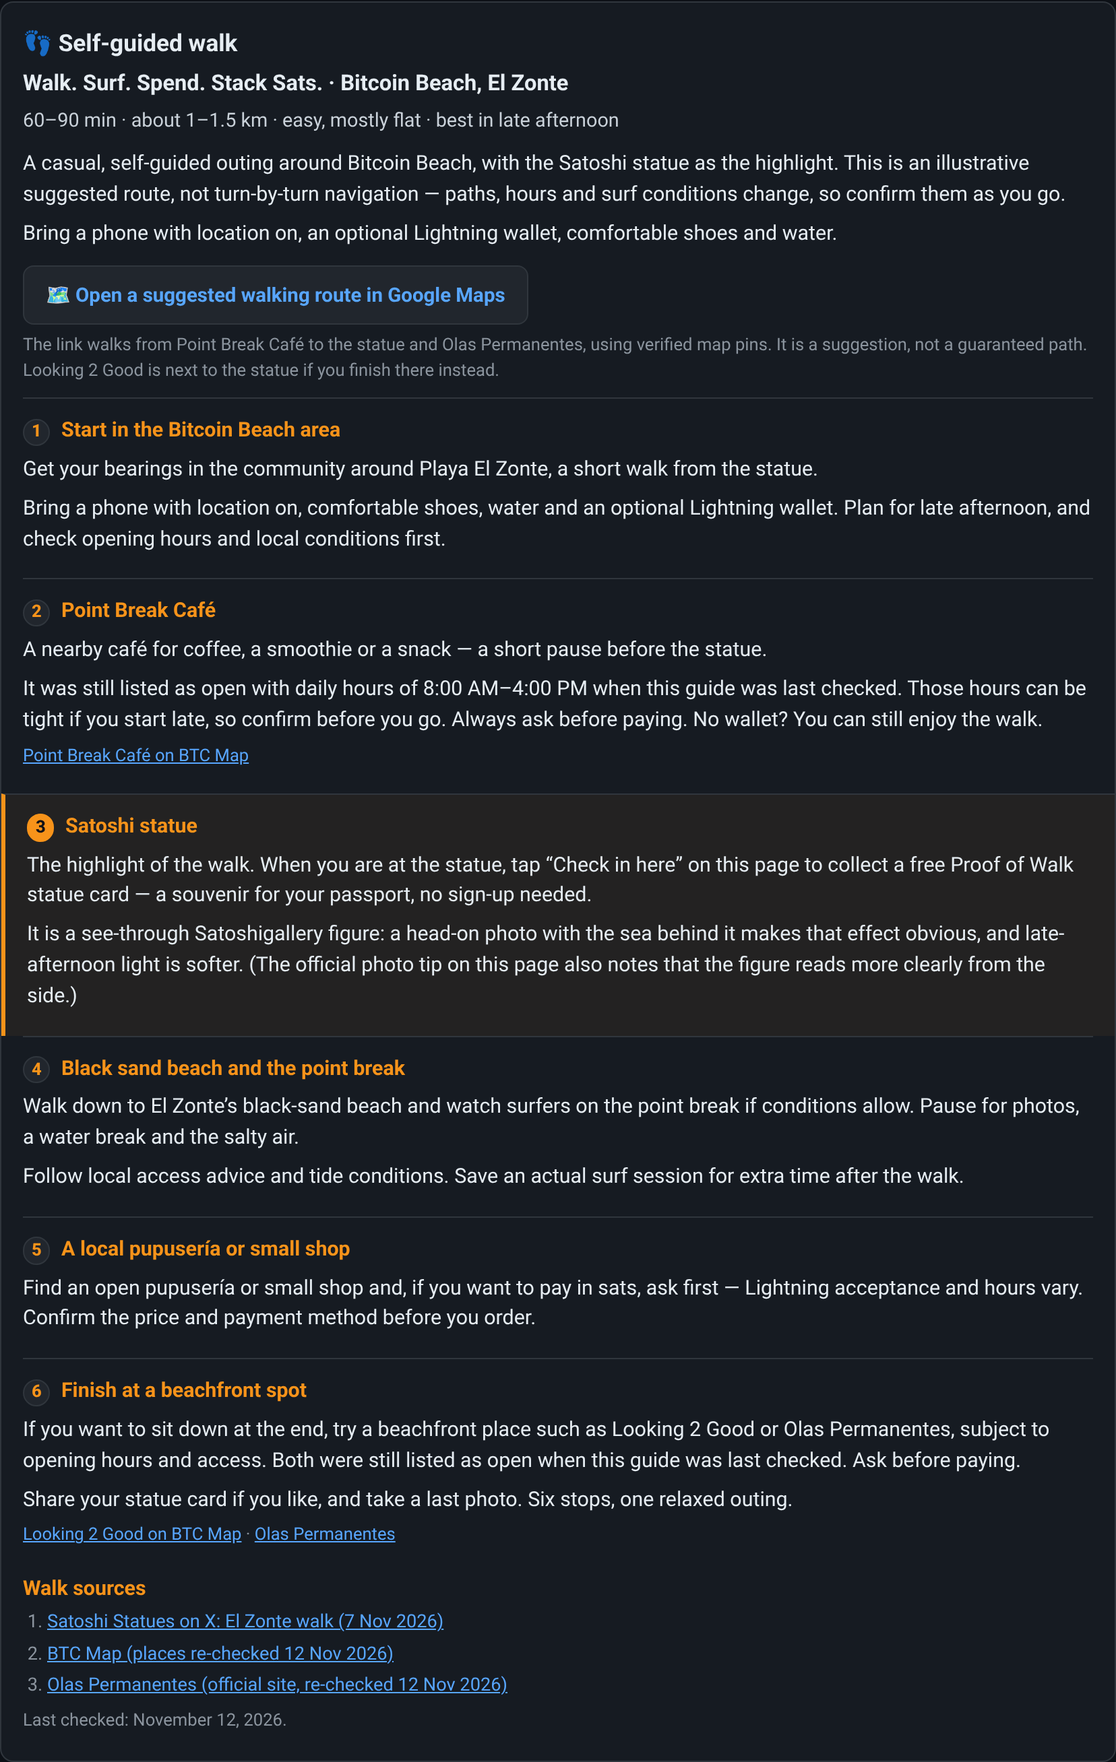
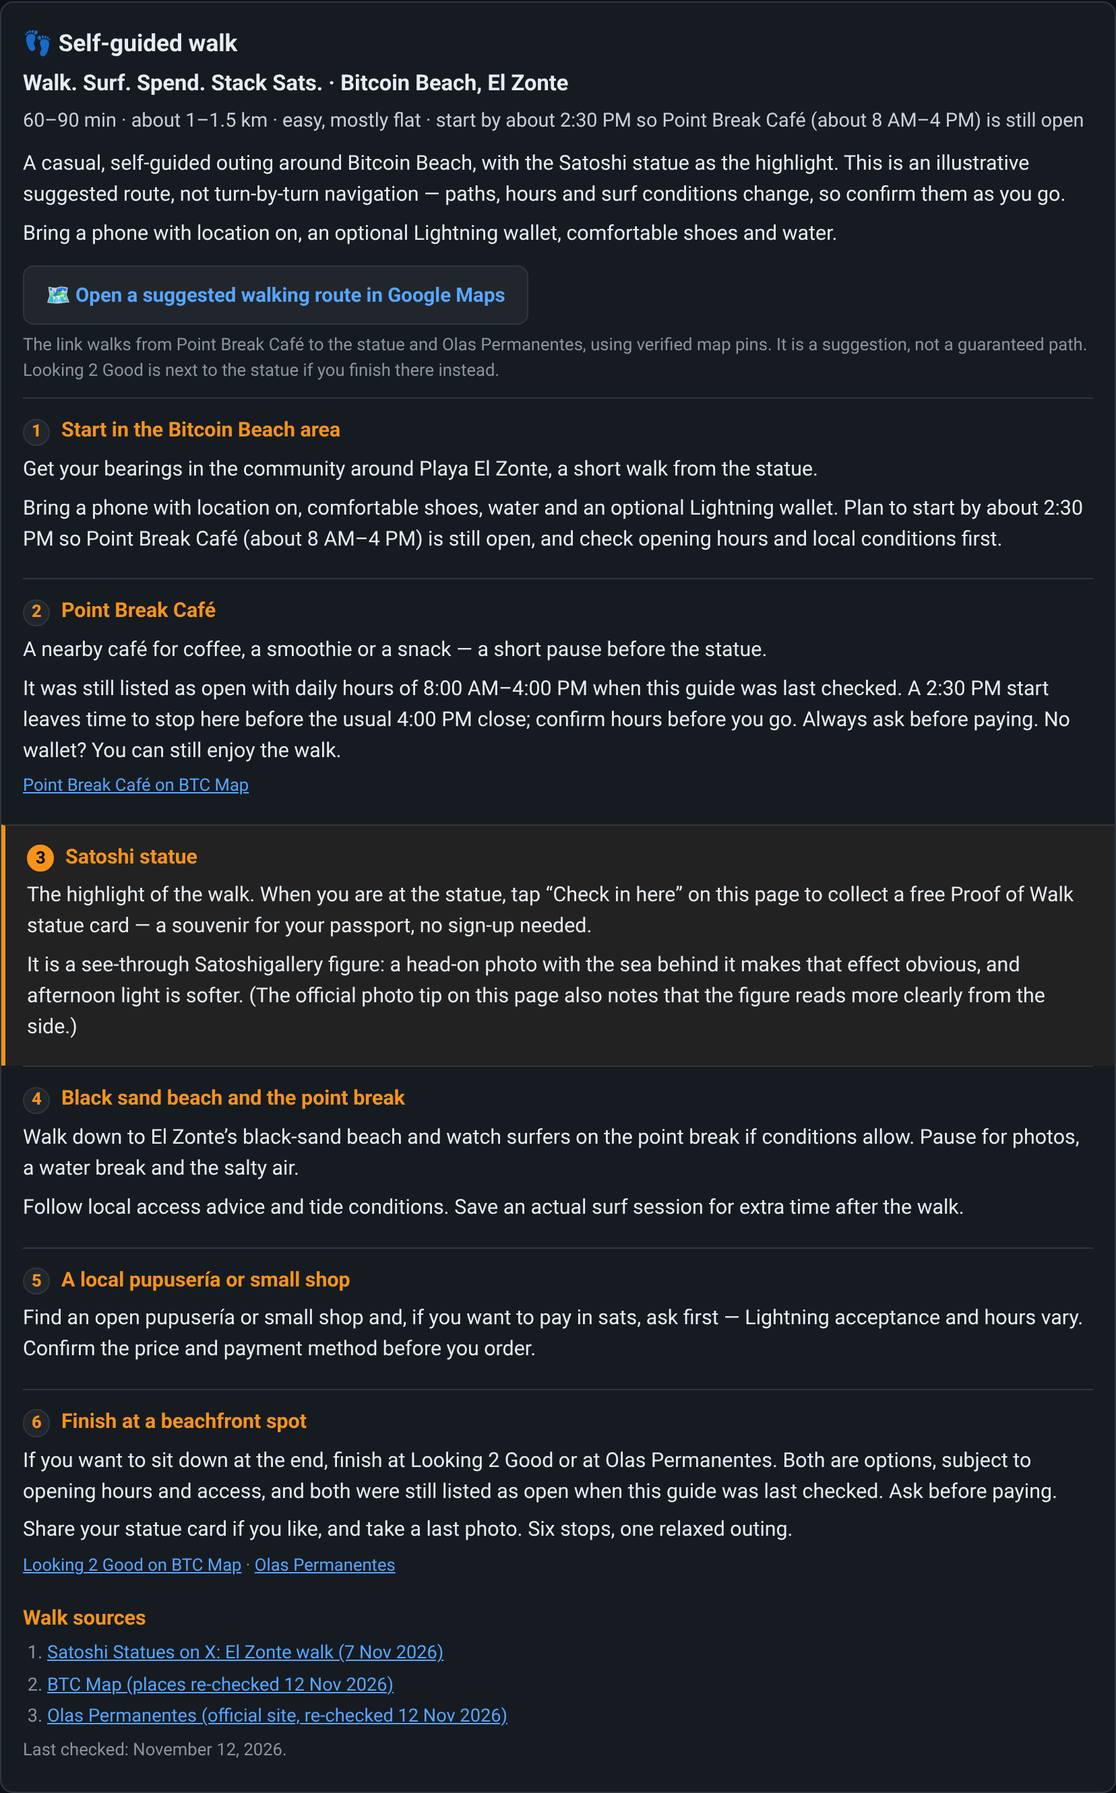
Preview: start El Zonte walk by 2:30 PM; both finish options
Per Noah: suggest starting by about 2:30 PM so Point Break Café
(about 8 AM–4 PM) is still open, and present Looking 2 Good and
Olas Permanentes as finish options. Lugano start at Palazzo dei
Congressi is unchanged. last_checked stays 2026-11-12.
Preview only — do not merge or deploy.

diff --git a/el-zonte/index.html b/el-zonte/index.html
@@ -163,7 +163,7 @@ footer.site{border-top:1px solid #30363d;margin-top:30px;padding-top:14px;font-s
     <p class="note">Located in the famous Bitcoin Beach community that helped inspire El Salvador’s Bitcoin adoption. It was first shown at Museo MARTE in San Salvador around 1 Feb 2025, then moved to El Zonte in April 2025 as part of a new public space opened by the Ministry of Public Works.</p>
     <section class="story" id="story" aria-labelledby="story-title"><h2 id="story-title">📖 The story</h2><dl><dt>Artist</dt><dd>Valentina Picozzi (Satoshigallery).<span class=cites>Sources: <a class="cite" href="https://journalducoin.com/bitcoin/satoshi-nakamoto-statue-bitcoin-salvador/" target="_blank" rel="noopener noreferrer">Journal du Coin (Feb 2025)</a></span></dd><dt>Unveiled</dt><dd>First presented at Museo MARTE in San Salvador around 1 Feb 2025 (Satoshigallery post of 1 Feb, tied to the Plan ₿ Forum El Salvador on 30–31 Jan 2025). It then moved to Bitcoin Beach, opening with a new public space on 12–13 Apr 2025.<span class=cites>Sources: <a class="cite" href="https://journalducoin.com/bitcoin/satoshi-nakamoto-statue-bitcoin-salvador/" target="_blank" rel="noopener noreferrer">Journal du Coin (Feb 2025)</a> <a class="cite" href="https://www.chaincatcher.com/en/article/2165920" target="_blank" rel="noopener noreferrer">ChainCatcher</a> <a class="cite" href="https://elsalvadorinenglish.com/2025/04/13/satoshi-rises-in-el-zonte-new-public-space-in-el-salvador-celebrating-sound-money-and-freedom/" target="_blank" rel="noopener noreferrer">El Salvador in English (13 Apr 2025)</a></span></dd><dt>Commissioned by</dt><dd><span class="rep">Reported</span> ChainCatcher reports that Tether and Plan ₿ unveiled it as the series&#x27; second statue, and it was installed as part of a public space built by El Salvador&#x27;s Ministry of Public Works. Who paid for it has not been confirmed.<span class=cites>Sources: <a class="cite" href="https://www.chaincatcher.com/en/article/2165920" target="_blank" rel="noopener noreferrer">ChainCatcher</a> <a class="cite" href="https://elsalvadorinenglish.com/2025/04/13/satoshi-rises-in-el-zonte-new-public-space-in-el-salvador-celebrating-sound-money-and-freedom/" target="_blank" rel="noopener noreferrer">El Salvador in English (13 Apr 2025)</a></span></dd><dt>What the design means</dt><dd>Satoshigallery says it gives the viewer &quot;this feeling of disappearance… the inventor is between the lines&quot;. The seated figure with a computer on its knees honours all developers, and standing behind it, the viewer &quot;becomes Satoshi&quot;. It is engraved &quot;We are all Satoshi&quot; and pays tribute to El Zonte&#x27;s role as Bitcoin Beach.<span class=cites>Sources: <a class="cite" href="https://journalducoin.com/bitcoin/satoshi-nakamoto-statue-bitcoin-salvador/" target="_blank" rel="noopener noreferrer">Journal du Coin (Feb 2025)</a> <a class="cite" href="https://elsalvadorinenglish.com/2025/04/13/satoshi-rises-in-el-zonte-new-public-space-in-el-salvador-celebrating-sound-money-and-freedom/" target="_blank" rel="noopener noreferrer">El Salvador in English (13 Apr 2025)</a></span></dd><dt>Series</dt><dd>2nd statue of the 21 Nodes series.<span class=cites>Sources: <a class="cite" href="https://www.chaincatcher.com/en/article/2165920" target="_blank" rel="noopener noreferrer">ChainCatcher</a></span></dd></dl><p class="note" style="font-size:.8rem;color:#8b949e;margin-top:8px">Only facts we could source. Items tagged “Reported” are not fully confirmed.</p></section>
     <section class="visit" id="visiting" aria-labelledby="visiting-title"><h2 id="visiting-title">🧭 Visiting</h2><h3>Getting there</h3><p class="note">We couldn&#x27;t verify bus routes to El Zonte. OpenStreetMap shows an unnamed bus stop about 180 m from the statue, on the coastal road (Carretera del Litoral).</p><p class="note">Parking: OpenStreetMap marks a surface parking area about 330 m away. Fees are unverified.</p><h3>Exact spot</h3><p class="note">In the public beachfront space at Playa El Zonte (Bitcoin Beach), La Libertad, which El Salvador&#x27;s Ministry of Public Works opened in April 2025. Satoshigallery&#x27;s own map pin is 13.4954011, -89.4424197. The Bitcoin Beach Office is about 85 m away (BTC Map/OpenStreetMap).</p><h3>Photo tip</h3><p class="note">It&#x27;s a Satoshigallery design, so the figure is visible from the side and nearly disappears from the front. The best angle at this site is unverified.</p><p class="note">Generic tip (not from a source): with the sea behind it, shooting head-on makes the see-through effect obvious, and late-afternoon light is softer.</p><h3>Hours &amp; access</h3><p class="note">Outdoors in a public space with beach showers, water stations and a calisthenics area (El Salvador in English, citing the Ministry of Public Works). No hours or fees are published, so treat both as unverified.</p><h3>Nearby places that accept bitcoin</h3><p class="note merch-count"><strong>79 places</strong> within 1 km on BTC Map. The nearest 5:</p><ul class="visit-nearby"><li><a href="https://btcmap.org/merchant/27086" target="_blank" rel="noopener noreferrer">Las Minutas</a> – restaurant, 10 m <span class="ver">· last verified Jun 2026</span></li><li><a href="https://btcmap.org/merchant/27049" target="_blank" rel="noopener noreferrer">Cocteles Xiomara</a> – shop, 10 m <span class="ver">· last verified Apr 2026</span></li><li><a href="https://btcmap.org/merchant/22414" target="_blank" rel="noopener noreferrer">Looking 2 Good Surf &amp; Beachfront Hotel</a> – hotel, 30 m <span class="ver">· last verified Apr 2026</span></li><li><a href="https://btcmap.org/merchant/5094" target="_blank" rel="noopener noreferrer">Vista Mar Zonte</a> – restaurant, 70 m <span class="ver">· last verified Sep 2025</span></li><li><a href="https://btcmap.org/merchant/368" target="_blank" rel="noopener noreferrer">Point Break Café - El Zonte</a> – café, 80 m <span class="ver">· last verified Apr 2026</span></li></ul><p class="note" style="font-size:.8rem;color:#8b949e">From <a href="https://btcmap.org/" target="_blank" rel="noopener noreferrer">BTC Map</a> (checked 2026-11-05); straight-line distances from the map pin, ATMs and unnamed listings left out. Check before you go.</p><h3 id="stay">Stay nearby (accepts bitcoin)</h3><p class="note merch-count"><strong>29 places to stay</strong> within 5 mi (8 km) on BTC Map. The nearest 5:</p><ul class="visit-nearby"><li><a href="https://btcmap.org/merchant/22414" target="_blank" rel="noopener noreferrer">Looking 2 Good Surf &amp; Beachfront Hotel</a> – hotel, 0.0 mi (30 m) <span class="ver">· last verified Apr 2026</span></li><li><a href="https://btcmap.org/merchant/27081" target="_blank" rel="noopener noreferrer">Hotel-Tienda-Manny</a> – hotel, 0.1 mi (110 m) <span class="ver">· last verified Apr 2026</span></li><li><a href="https://olaspermanentes.surf/restaurantes/el-zonte/" target="_blank" rel="noopener noreferrer">Olas Permanentes</a> – hotel, 0.1 mi (110 m) <span class="ver">· last verified Apr 2026 · <a href="https://btcmap.org/merchant/5777" target="_blank" rel="noopener noreferrer">BTC Map</a></span></li><li><a href="https://www.gartenzonte.com/" target="_blank" rel="noopener noreferrer">Garten Hotel</a> – hotel, 0.1 mi (130 m) <span class="ver">· last verified Apr 2026 · <a href="https://btcmap.org/merchant/367" target="_blank" rel="noopener noreferrer">BTC Map</a></span></li><li><a href="https://hotelmichanti.com/" target="_blank" rel="noopener noreferrer">Hotel Michanti</a> – hotel, 0.1 mi (230 m) <span class="ver">· last verified Apr 2026 · <a href="https://btcmap.org/merchant/373" target="_blank" rel="noopener noreferrer">BTC Map</a></span></li></ul><p class="note stay-warn">Confirm with the place that it still takes bitcoin before you book.</p><p class="note" style="font-size:.8rem;color:#8b949e">Hotels, hostels, guesthouses and rentals from <a href="https://btcmap.org/" target="_blank" rel="noopener noreferrer">BTC Map</a> (checked 2026-11-05); straight-line distances from the map pin. No paid or affiliate links.</p><h3>Guide sources</h3><ol class="src"><li><a href="https://elsalvadorinenglish.com/2025/04/13/satoshi-rises-in-el-zonte-new-public-space-in-el-salvador-celebrating-sound-money-and-freedom/" target="_blank" rel="noopener noreferrer">El Salvador in English (13 Apr 2025)</a></li><li><a href="https://maps.google.com/?q=13.4954011,-89.4424197" target="_blank" rel="noopener noreferrer">Satoshigallery map pin (via its 13 Apr 2025 post)</a></li><li><a href="https://journalducoin.com/bitcoin/satoshi-nakamoto-statue-bitcoin-salvador/" target="_blank" rel="noopener noreferrer">Journal du Coin (Museo Marte)</a></li><li><a href="https://bitcoin-austria.at/satoshi-statue/" target="_blank" rel="noopener noreferrer">Bitcoin Austria: Satoshi statue page</a></li><li><a href="https://btcmap.org/map" target="_blank" rel="noopener noreferrer">BTC Map API</a></li></ol><p class="note" style="font-size:.8rem;color:#8b949e;margin-top:8px">Guide updated 2026-10-21.</p></section>
-    <style>.walk{background:#161b22;border:1px solid #30363d;border-radius:10px;padding:4px 16px 14px;margin:22px 0;scroll-margin-top:12px}.walk h2{margin:14px 0 4px}.walk h3{font-size:.95rem;color:#f7931a;margin:0 0 4px;display:flex;gap:8px;align-items:baseline}.walk-kicker{font-size:1.02rem;font-weight:700;color:#e6edf3;margin:0 0 4px}.walk-meta{font-size:.9rem;color:#c9d1d9;margin:0 0 10px}.walk .note{margin:6px 0}.walk-maps{margin:12px 0 6px}.walk-maps .btn{width:100%;max-width:28rem}.walk-maps-note{font-size:.8rem;color:#8b949e}.walk-stops{list-style:none;padding:0;margin:10px 0 0}.walk-stops li{margin:0;padding:12px 0;border-top:1px solid #30363d}.walk-stops li.walk-highlight{background:rgba(247,147,26,.06);margin:0 -16px;padding:12px 16px;border-top:1px solid #30363d;border-left:3px solid #f7931a}.walk-n{display:inline-flex;align-items:center;justify-content:center;min-width:1.6em;height:1.6em;border-radius:50%;background:#21262d;border:1px solid #30363d;color:#f7931a;font-size:.8rem;font-weight:800;flex:0 0 auto}.walk-highlight .walk-n{background:#f7931a;border-color:#f7931a;color:#0d1117}.walk-links,.walk-checked{font-size:.8rem;color:#8b949e}.walk a{color:#58a6ff}@media (min-width:640px){.walk-maps .btn{width:auto}}</style><section class="walk" id="walk" aria-labelledby="walk-title"><h2 id="walk-title">👣 Self-guided walk</h2><p class="walk-kicker">Walk. Surf. Spend. Stack Sats. · Bitcoin Beach, El Zonte</p><p class="walk-meta">60–90 min · about 1–1.5 km · easy, mostly flat · best in late afternoon</p><p class="note">A casual, self-guided outing around Bitcoin Beach, with the Satoshi statue as the highlight. This is an illustrative suggested route, not turn-by-turn navigation — paths, hours and surf conditions change, so confirm them as you go.</p><p class="note">Bring a phone with location on, an optional Lightning wallet, comfortable shoes and water.</p><p class="walk-maps"><a class="btn" href="https://www.google.com/maps/dir/?api=1&amp;travelmode=walking&amp;origin=13.4958112,-89.4418586&amp;waypoints=13.4954011,-89.4424197&amp;destination=13.4953881,-89.4413685" target="_blank" rel="noopener noreferrer">🗺 Open a suggested walking route in Google Maps</a></p><p class="note walk-maps-note">The link walks from Point Break Café to the statue and Olas Permanentes, using verified map pins. It is a suggestion, not a guaranteed path. Looking 2 Good is next to the statue if you finish there instead.</p><ol class="walk-stops"><li><h3><span class="walk-n">1</span> Start in the Bitcoin Beach area</h3><p class="note">Get your bearings in the community around Playa El Zonte, a short walk from the statue.</p><p class="note">Bring a phone with location on, comfortable shoes, water and an optional Lightning wallet. Plan for late afternoon, and check opening hours and local conditions first.</p></li><li><h3><span class="walk-n">2</span> Point Break Café</h3><p class="note">A nearby café for coffee, a smoothie or a snack — a short pause before the statue.</p><p class="note">It was still listed as open with daily hours of 8:00 AM–4:00 PM when this guide was last checked. Those hours can be tight if you start late, so confirm before you go. Always ask before paying. No wallet? You can still enjoy the walk.</p><p class="note walk-links"><a href="https://btcmap.org/merchant/368" target="_blank" rel="noopener noreferrer">Point Break Café on BTC Map</a></p></li><li class="walk-highlight"><h3><span class="walk-n">3</span> Satoshi statue</h3><p class="note">The highlight of the walk. When you are at the statue, tap “Check in here” on this page to collect a free Proof of Walk statue card — a souvenir for your passport, no sign-up needed.</p><p class="note">It is a see-through Satoshigallery figure: a head-on photo with the sea behind it makes that effect obvious, and late-afternoon light is softer. (The official photo tip on this page also notes that the figure reads more clearly from the side.)</p></li><li><h3><span class="walk-n">4</span> Black sand beach and the point break</h3><p class="note">Walk down to El Zonte’s black-sand beach and watch surfers on the point break if conditions allow. Pause for photos, a water break and the salty air.</p><p class="note">Follow local access advice and tide conditions. Save an actual surf session for extra time after the walk.</p></li><li><h3><span class="walk-n">5</span> A local pupusería or small shop</h3><p class="note">Find an open pupusería or small shop and, if you want to pay in sats, ask first — Lightning acceptance and hours vary. Confirm the price and payment method before you order.</p></li><li><h3><span class="walk-n">6</span> Finish at a beachfront spot</h3><p class="note">If you want to sit down at the end, try a beachfront place such as Looking 2 Good or Olas Permanentes, subject to opening hours and access. Both were still listed as open when this guide was last checked. Ask before paying.</p><p class="note">Share your statue card if you like, and take a last photo. Six stops, one relaxed outing.</p><p class="note walk-links"><a href="https://btcmap.org/merchant/22414" target="_blank" rel="noopener noreferrer">Looking 2 Good on BTC Map</a> · <a href="https://olaspermanentes.surf/restaurantes/el-zonte/" target="_blank" rel="noopener noreferrer">Olas Permanentes</a></p></li></ol><h3>Walk sources</h3><ol class="src"><li><a href="https://x.com/satoshistatue21/status/2119146950863831265" target="_blank" rel="noopener noreferrer">Satoshi Statues on X: El Zonte walk (7 Nov 2026)</a></li><li><a href="https://btcmap.org/map#16/13.49540/-89.44242" target="_blank" rel="noopener noreferrer">BTC Map (places re-checked 12 Nov 2026)</a></li><li><a href="https://olaspermanentes.surf/restaurantes/el-zonte/" target="_blank" rel="noopener noreferrer">Olas Permanentes (official site, re-checked 12 Nov 2026)</a></li></ol><p class="note walk-checked">Last checked: November 12, 2026.</p></section>
+    <style>.walk{background:#161b22;border:1px solid #30363d;border-radius:10px;padding:4px 16px 14px;margin:22px 0;scroll-margin-top:12px}.walk h2{margin:14px 0 4px}.walk h3{font-size:.95rem;color:#f7931a;margin:0 0 4px;display:flex;gap:8px;align-items:baseline}.walk-kicker{font-size:1.02rem;font-weight:700;color:#e6edf3;margin:0 0 4px}.walk-meta{font-size:.9rem;color:#c9d1d9;margin:0 0 10px}.walk .note{margin:6px 0}.walk-maps{margin:12px 0 6px}.walk-maps .btn{width:100%;max-width:28rem}.walk-maps-note{font-size:.8rem;color:#8b949e}.walk-stops{list-style:none;padding:0;margin:10px 0 0}.walk-stops li{margin:0;padding:12px 0;border-top:1px solid #30363d}.walk-stops li.walk-highlight{background:rgba(247,147,26,.06);margin:0 -16px;padding:12px 16px;border-top:1px solid #30363d;border-left:3px solid #f7931a}.walk-n{display:inline-flex;align-items:center;justify-content:center;min-width:1.6em;height:1.6em;border-radius:50%;background:#21262d;border:1px solid #30363d;color:#f7931a;font-size:.8rem;font-weight:800;flex:0 0 auto}.walk-highlight .walk-n{background:#f7931a;border-color:#f7931a;color:#0d1117}.walk-links,.walk-checked{font-size:.8rem;color:#8b949e}.walk a{color:#58a6ff}@media (min-width:640px){.walk-maps .btn{width:auto}}</style><section class="walk" id="walk" aria-labelledby="walk-title"><h2 id="walk-title">👣 Self-guided walk</h2><p class="walk-kicker">Walk. Surf. Spend. Stack Sats. · Bitcoin Beach, El Zonte</p><p class="walk-meta">60–90 min · about 1–1.5 km · easy, mostly flat · start by about 2:30 PM so Point Break Café (about 8 AM–4 PM) is still open</p><p class="note">A casual, self-guided outing around Bitcoin Beach, with the Satoshi statue as the highlight. This is an illustrative suggested route, not turn-by-turn navigation — paths, hours and surf conditions change, so confirm them as you go.</p><p class="note">Bring a phone with location on, an optional Lightning wallet, comfortable shoes and water.</p><p class="walk-maps"><a class="btn" href="https://www.google.com/maps/dir/?api=1&amp;travelmode=walking&amp;origin=13.4958112,-89.4418586&amp;waypoints=13.4954011,-89.4424197&amp;destination=13.4953881,-89.4413685" target="_blank" rel="noopener noreferrer">🗺 Open a suggested walking route in Google Maps</a></p><p class="note walk-maps-note">The link walks from Point Break Café to the statue and Olas Permanentes, using verified map pins. It is a suggestion, not a guaranteed path. Looking 2 Good is next to the statue if you finish there instead.</p><ol class="walk-stops"><li><h3><span class="walk-n">1</span> Start in the Bitcoin Beach area</h3><p class="note">Get your bearings in the community around Playa El Zonte, a short walk from the statue.</p><p class="note">Bring a phone with location on, comfortable shoes, water and an optional Lightning wallet. Plan to start by about 2:30 PM so Point Break Café (about 8 AM–4 PM) is still open, and check opening hours and local conditions first.</p></li><li><h3><span class="walk-n">2</span> Point Break Café</h3><p class="note">A nearby café for coffee, a smoothie or a snack — a short pause before the statue.</p><p class="note">It was still listed as open with daily hours of 8:00 AM–4:00 PM when this guide was last checked. A 2:30 PM start leaves time to stop here before the usual 4:00 PM close; confirm hours before you go. Always ask before paying. No wallet? You can still enjoy the walk.</p><p class="note walk-links"><a href="https://btcmap.org/merchant/368" target="_blank" rel="noopener noreferrer">Point Break Café on BTC Map</a></p></li><li class="walk-highlight"><h3><span class="walk-n">3</span> Satoshi statue</h3><p class="note">The highlight of the walk. When you are at the statue, tap “Check in here” on this page to collect a free Proof of Walk statue card — a souvenir for your passport, no sign-up needed.</p><p class="note">It is a see-through Satoshigallery figure: a head-on photo with the sea behind it makes that effect obvious, and afternoon light is softer. (The official photo tip on this page also notes that the figure reads more clearly from the side.)</p></li><li><h3><span class="walk-n">4</span> Black sand beach and the point break</h3><p class="note">Walk down to El Zonte’s black-sand beach and watch surfers on the point break if conditions allow. Pause for photos, a water break and the salty air.</p><p class="note">Follow local access advice and tide conditions. Save an actual surf session for extra time after the walk.</p></li><li><h3><span class="walk-n">5</span> A local pupusería or small shop</h3><p class="note">Find an open pupusería or small shop and, if you want to pay in sats, ask first — Lightning acceptance and hours vary. Confirm the price and payment method before you order.</p></li><li><h3><span class="walk-n">6</span> Finish at a beachfront spot</h3><p class="note">If you want to sit down at the end, finish at Looking 2 Good or at Olas Permanentes. Both are options, subject to opening hours and access, and both were still listed as open when this guide was last checked. Ask before paying.</p><p class="note">Share your statue card if you like, and take a last photo. Six stops, one relaxed outing.</p><p class="note walk-links"><a href="https://btcmap.org/merchant/22414" target="_blank" rel="noopener noreferrer">Looking 2 Good on BTC Map</a> · <a href="https://olaspermanentes.surf/restaurantes/el-zonte/" target="_blank" rel="noopener noreferrer">Olas Permanentes</a></p></li></ol><h3>Walk sources</h3><ol class="src"><li><a href="https://x.com/satoshistatue21/status/2119146950863831265" target="_blank" rel="noopener noreferrer">Satoshi Statues on X: El Zonte walk (7 Nov 2026)</a></li><li><a href="https://btcmap.org/map#16/13.49540/-89.44242" target="_blank" rel="noopener noreferrer">BTC Map (places re-checked 12 Nov 2026)</a></li><li><a href="https://olaspermanentes.surf/restaurantes/el-zonte/" target="_blank" rel="noopener noreferrer">Olas Permanentes (official site, re-checked 12 Nov 2026)</a></li></ol><p class="note walk-checked">Last checked: November 12, 2026.</p></section>
     <section class="events" id="events" aria-labelledby="events-title"><h2 id="events-title">📅 Upcoming Bitcoin events nearby</h2><ul class="ev-list"><li data-end="2026-11-12"><a href="https://bitcoinhistorico.com/" target="_blank" rel="noopener noreferrer">Bitcoin Histórico 2026</a><span class="ev-meta">Nov 11–12, 2026 · San Salvador, El Salvador · about 40 km away</span></li><li data-end="2027-01-30"><a href="https://planb.sv/" target="_blank" rel="noopener noreferrer">Plan ₿ Forum El Salvador 2027</a><span class="ev-meta">Jan 29–30, 2027 · San Salvador, El Salvador · about 30 km away</span></li></ul><p class="note ev-fine">Dates are from each event’s official website. Check there for the latest details before you travel.</p></section><script type="application/ld+json">
 {
  "@context": "https://schema.org",
